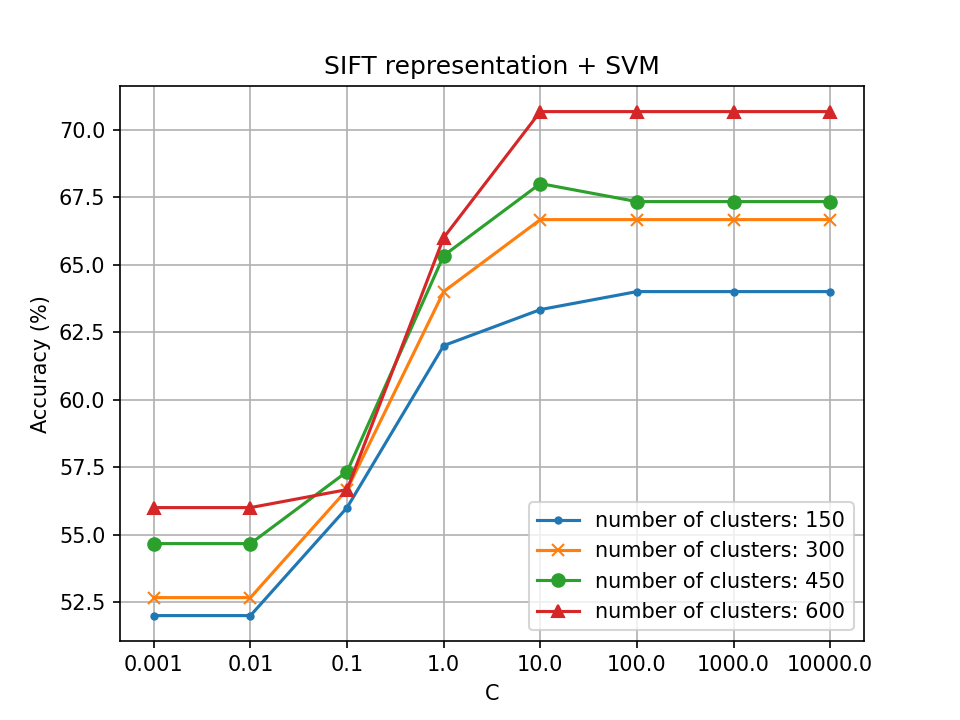
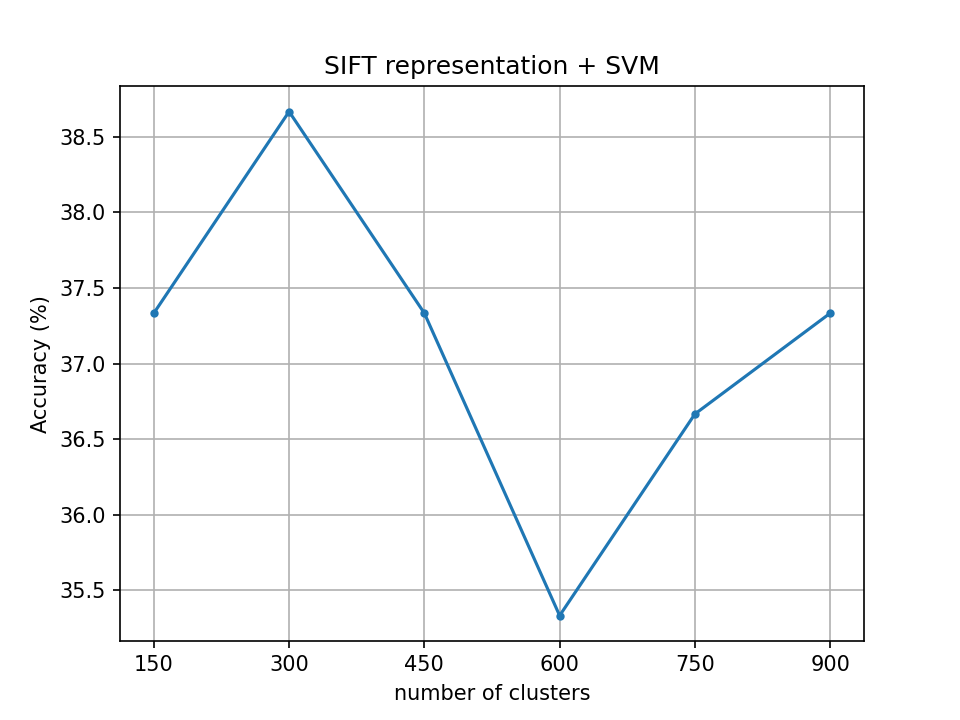
change svm to linear svm

diff --git a/HW5/plot.py b/HW5/plot.py
@@ -76,36 +76,18 @@ if __name__ == '__main__':
     plt.savefig('sift_knn.png', dpi=150)
 
     # sift_svm
-    # time, repr_mode, cls_mode, num_clusters, c, acc
+    # time, repr_mode, cls_mode, num_clusters, acc
     plt.clf()
     all_data = json.load(open('sift_svm.json'))
     all_data = serialize(all_data)
 
-    data = all_data[all_data[:,NUM_CLUSTERS]=='150']
-    c = data[:,C].astype(np.float32)
-    x = np.arange(len(c))
-    acc = data[:,ACC].astype(np.float32) * 100
-    plt.plot(x, acc, label='number of clusters: 150', marker='.')
-
-    data = all_data[all_data[:,NUM_CLUSTERS]=='300']
-    c = data[:,C].astype(np.float32)
-    acc = data[:,ACC].astype(np.float32) * 100
-    plt.plot(x, acc, label='number of clusters: 300', marker='x')
-
-    data = all_data[all_data[:,NUM_CLUSTERS]=='450']
-    c = data[:,C].astype(np.float32)
-    acc = data[:,ACC].astype(np.float32) * 100
-    plt.plot(x, acc, label='number of clusters: 450', marker='o')
-
-    data = all_data[all_data[:,NUM_CLUSTERS]=='600']
-    c = data[:,C].astype(np.float32)
-    acc = data[:,ACC].astype(np.float32) * 100
-    plt.plot(x, acc, label='number of clusters: 600', marker='^')
+    acc = all_data[:,ACC].astype(np.float32) * 100
+    x = np.arange(acc.shape[0])
+    plt.plot(x, acc, marker='.')
 
     plt.title('SIFT representation + SVM')
-    plt.xticks(x, c.astype(str))
-    plt.xlabel('C')
+    plt.xticks(x, all_data[:,NUM_CLUSTERS])
+    plt.xlabel('number of clusters')
     plt.ylabel('Accuracy (%)')
-    plt.legend()
     plt.grid('on')
     plt.savefig('sift_svm.png', dpi=150)

diff --git a/HW5/main.py b/HW5/main.py
@@ -24,7 +24,7 @@ import kNN, model
 def sift(dataset):
     sift_descriptor = cv2.SIFT_create(
                             nfeatures=0,
-                            nOctaveLayers=8,
+                            nOctaveLayers=5,
                             contrastThreshold=0.01,
                             edgeThreshold=80,
                             sigma=0.6)
@@ -173,9 +173,6 @@ if __name__ == '__main__':
     parser.add_argument('--k', type=int, default=1)
     parser.add_argument('--norm', type=int, default=2)
 
-    # for model (SVM)
-    parser.add_argument('--c', type=float, default=1.0)
-
     # for model (NN)
     parser.add_argument('--epochs', type=int, default=100)
     parser.add_argument('--lr', type=float, default=5e-4)
@@ -315,11 +312,10 @@ if __name__ == '__main__':
         x_var = x_train.var().item()
         model = svm_train(
                     y_train.numpy(), x_train.numpy(),
-                    f'-s 0 -t 2 -c {args.c} -g {1/(n_feature*x_var)} -q')
+                    f'-s 0 -t 0 -q')
         res = svm_predict(y_test.numpy(), x_test.numpy(), model, '-q')
         acc = res[1][0] / 100
         print(f'test acc: {acc:.4f}')
-        json_args['c'] = args.c
         json_args['acc'] = acc
         log.append(json_args)
         json.dump(log, open(log_fn, 'w'), indent=2)
